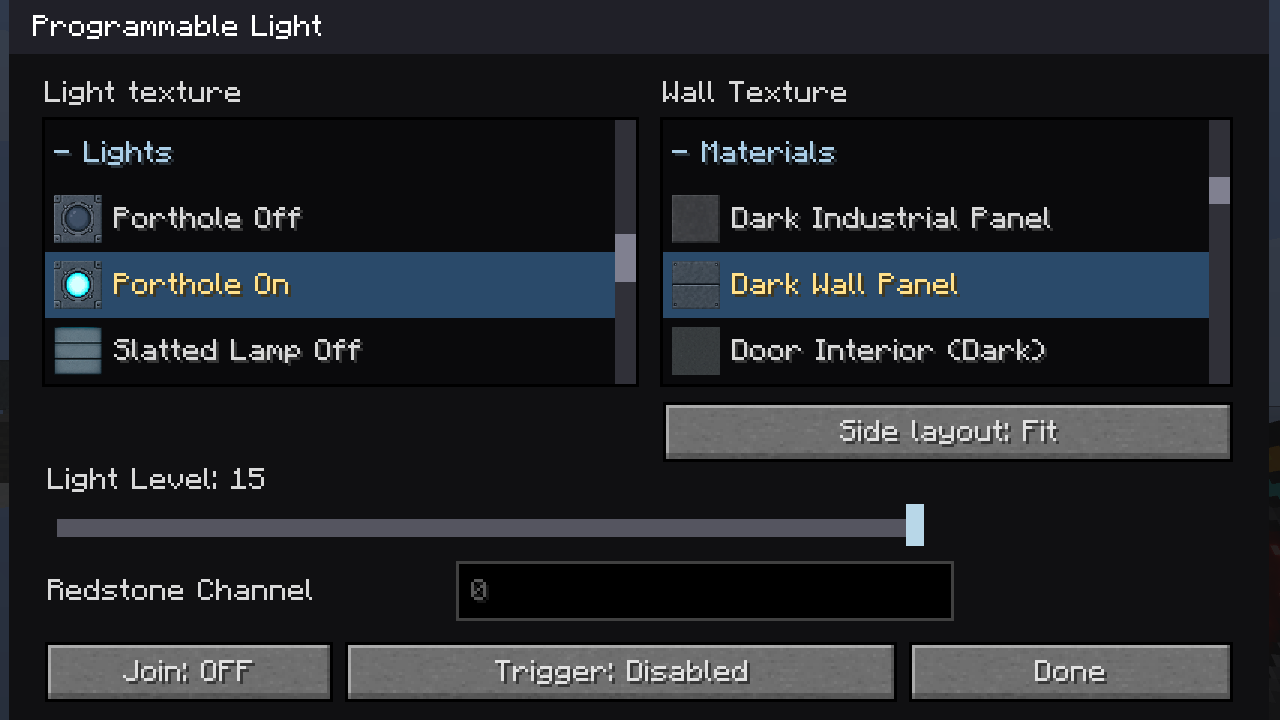
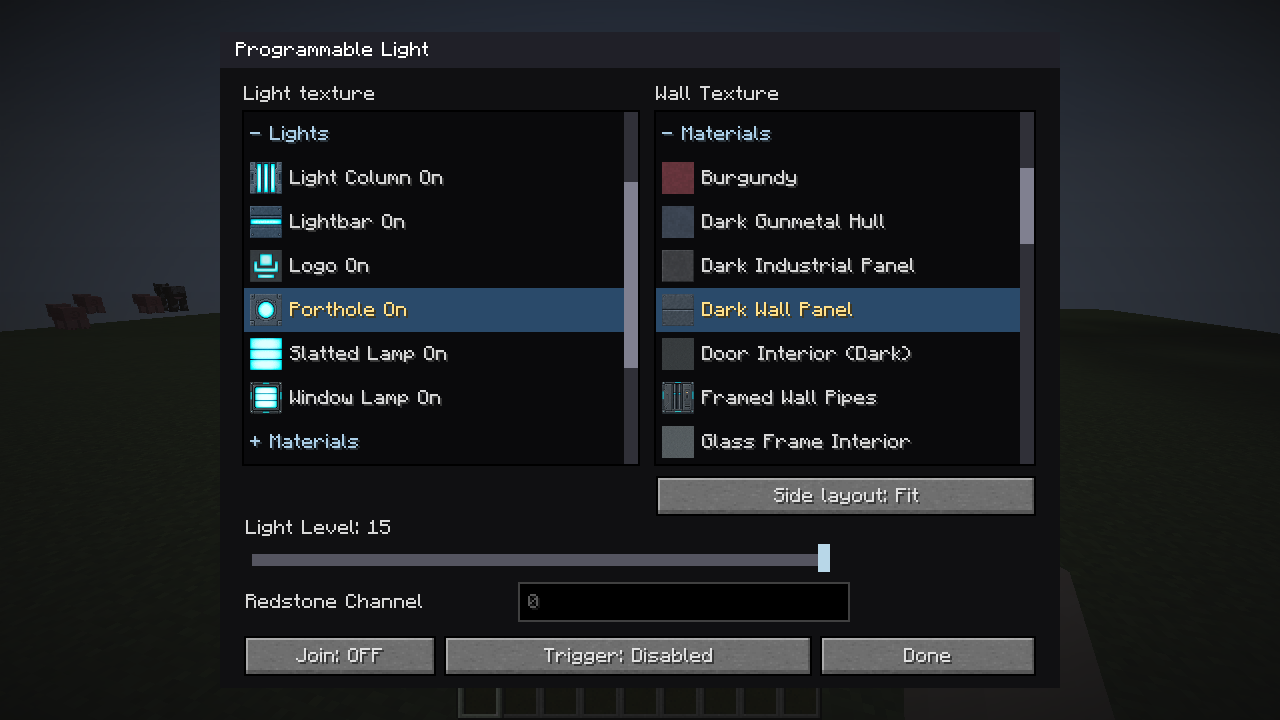
Document and illustrate the validated taller light picker

diff --git a/docs/TASKS-material-picker-followup.md b/docs/TASKS-material-picker-followup.md
@@ -47,4 +47,4 @@ Tested source: `087d6ddac62c31ea7060e38afba47c695fd6a6f4`. Standard artifact: `b
 - [x] Make the light dialog taller, with up to eight list rows (seven textures and a pinned category); adapt to the available GUI height and move all lower controls together.
 - [x] Document Custom door alpha handling and other-mod door recognition.
 
-Initial build, non-rendering checks and full live suite `render-run.txZxJ2` passed. Screenshot review caught Auto GUI scale retaining only four rows at 720p. Added temporary scale reduction for this dialog, restoration on close, and a focused real-client capture/check route. Final validation pending.
[1 lines of base64/hex data omitted]

diff --git a/CHANGELOG.md b/CHANGELOG.md
@@ -24,7 +24,7 @@ See the [illustrated programmable block improvements](docs/gallery/task-improvem
 
 ### Fixed
 
-- Programmable light dialogs hide separate Off materials while keeping automatic on/off artwork, and grow to show up to seven textures plus the category heading.
+- Programmable light dialogs hide separate Off materials while keeping automatic on/off artwork, and grow to show up to seven textures plus the category heading. Temporarily reduce GUI scale when needed to fit the taller dialog, restoring it on close.
 
 - Native screen/control options use categorized thumbnail lists while retaining animation, framing and speed controls. Housing Fit/Tile is directly available in screen/console/input dialogs.
 - Door artwork on ordinary blocks uses its square lower half. Replacement door faces offer saved/copied Fit/Tile and keep the native edge textures and hinges.
